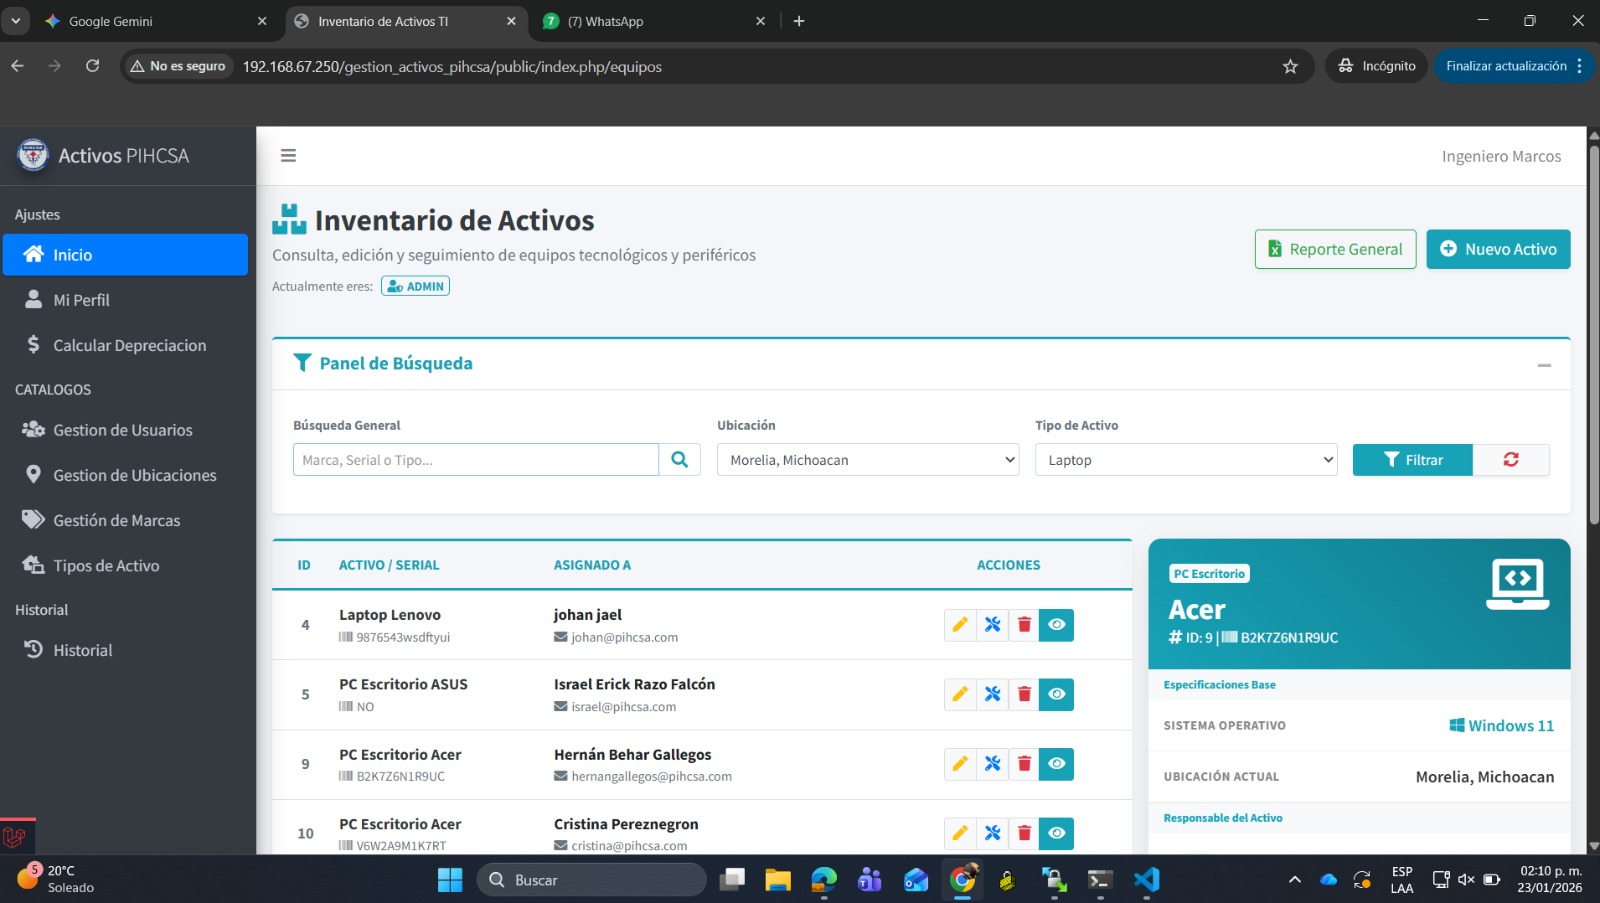
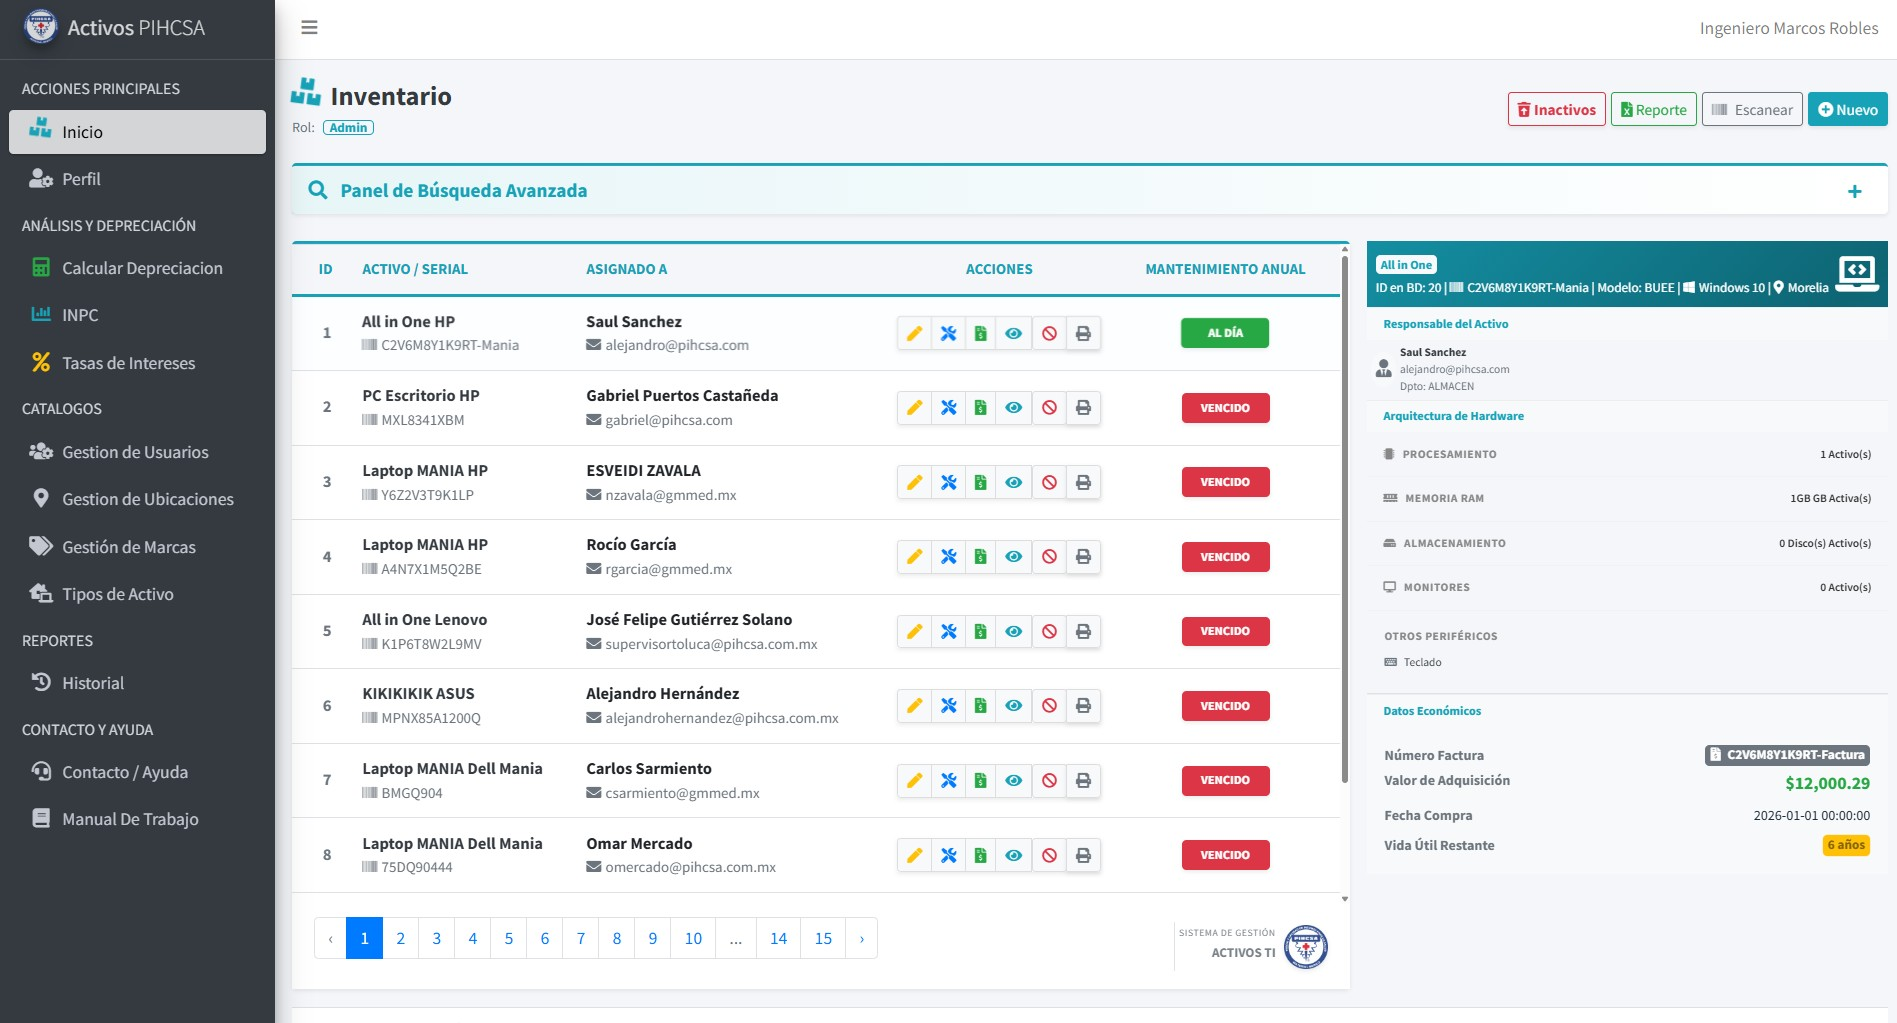
docs: updated pihcsa picture

diff --git a/portfolio-johan/src/components/Home.jsx b/portfolio-johan/src/components/Home.jsx
@@ -22,7 +22,7 @@ const Home = ({ t }) => {
             target="_blank" className="text-2xl md:text-4xl font-bold text-[#721c3d] hover:underline decoration-4 underline-offset-8">
             {t.heroLinkedIn}
         </a>
-
+      <br /> <br />
         <p className="text-lg md:text-2xl text-gray-900 font-medium max-w-2xl leading-snug border-l-8 border-[#721c3d] pl-6 py-2">
         {t.valueProposition}
         </p>
